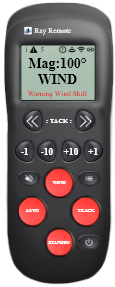
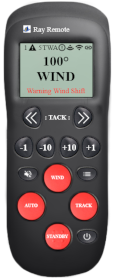
feature: add more display modes in GUI (#9)

diff --git a/public/js/rayremote.js b/public/js/rayremote.js
@@ -36,7 +36,6 @@ var touchEnd = function(event) {
 
 var ws = null;
 var handlePilotStatusTimeout = null;
-var handleHeadindValueTimeout = null;
 var handleReceiveTimeout = null;
 var handleSilenceScreenTimeout = null;
 var handleConfirmActionTimeout = null;
@@ -44,7 +43,7 @@ var handleCountDownCounterTimeout = null;
 var connected = false;
 var reconnect = true;
 const timeoutReconnect = 2000;
-const timeoutValue = 2000;
+const timeoutValue = 3000;
 const timeoutBlink = 500;
 const countDownDefault = 5;
 const noDataMessage = '-- -- -- --';
@@ -52,6 +51,7 @@ var pilotStatusDiv = undefined;
 var headingValueDiv = undefined;
 var receiveIconDiv = undefined;
 var sendIconDiv = undefined;
+var typeValIconDiv = undefined;
 var errorIconDiv = undefined;
 var countDownCounterDiv = undefined;
 var powerOnIconDiv = undefined;
@@ -67,11 +67,46 @@ var actionToBeConfirmed = '';
 var countDownValue = 0;
 var pilotStatus = '';
 
+var displayByPathParams = {
+  'navigation.headingMagnetic': {
+    handleTimeout: null,
+    typeVal: 'Mag',
+    usage: ['wind', 'route', 'auto', 'standby'],
+    value: ''
+  },
+  'navigation.headingTrue': {
+    handleTimeout: null,
+    typeVal: 'True',
+    usage: ['wind', 'route', 'auto', 'standby'],
+    value: ''
+  },
+  'environment.wind.angleApparent': {
+    handleTimeout: null,
+    typeVal: 'AWA',
+    usage: ['wind'],
+    value: ''
+  },
+  'environment.wind.angleTrueWater': {
+    handleTimeout: null,
+    typeVal: 'TWA',
+    usage: ['wind'],
+    value: ''
+  }
+}
+
+var preferedDisplayMode = {
+  wind: 'environment.wind.angleApparent',
+  route: 'navigation.headingMagnetic',
+  auto: 'navigation.headingMagnetic',
+  standby: 'navigation.headingMagnetic'
+}
+
 var startUpRayRemote = function() {
   pilotStatusDiv = document.getElementById('pilotStatus');
   headingValueDiv = document.getElementById('headingValue');
   receiveIconDiv = document.getElementById('receiveIcon');
   sendIconDiv = document.getElementById('sendIcon');
+  typeValIconDiv = document.getElementById('typeValIcon');
   errorIconDiv = document.getElementById('errorIcon');
   powerOnIconDiv = document.getElementById('powerOnIcon');
   powerOffIconDiv = document.getElementById('powerOffIcon');
@@ -82,8 +117,20 @@ var startUpRayRemote = function() {
   silenceScreenTextDiv = document.getElementById('silenceScreenText');
   confirmScreenDiv = document.getElementById('confirmScreen');
   countDownCounterDiv = document.getElementById('countDownCounter');
-  setPilotStatus(noDataMessage);
-  setHeadindValue(noDataMessage);
+  setPilotStatus('');
+  setHeadindValue('');
+  var savedPreferedDisplayModeJSON = localStorage.getItem('signalk-raymarine-autopilot');
+  var savedPreferedDisplayMode = savedPreferedDisplayModeJSON && JSON.parse(savedPreferedDisplayModeJSON);
+  if (savedPreferedDisplayMode === null) {savedPreferedDisplayMode = {};}
+  savedPreferedDisplayMode = (typeof savedPreferedDisplayMode.preferedDisplayMode !== 'undefined') ? savedPreferedDisplayMode.preferedDisplayMode : {};
+  Object.keys(preferedDisplayMode).map( pilotMode => {
+    var pathForPilotMode = savedPreferedDisplayMode[pilotMode];
+    if ((typeof pathForPilotMode !== 'undefined') &&
+        (typeof displayByPathParams[pathForPilotMode] !== 'undefined') &&
+        displayByPathParams[pathForPilotMode].usage.includes(pilotMode)) {
+      preferedDisplayMode[pilotMode] = pathForPilotMode;
+    }
+  })
 //  demo(); return;
   setTimeout(() => {
     receiveIconDiv.style.visibility = 'hidden';
@@ -92,13 +139,16 @@ var startUpRayRemote = function() {
     bottomBarIconDiv.style.visibility = 'hidden';
     notificationCounterDiv.style.visibility = 'hidden';
     countDownCounterDiv.innerHTML = '';
+    typeValIconDiv.innerHTML = '';
     wsConnect();
   }, 1500);
 }
 
 var demo = function () {
-  setHeadindValue(100);
-  setPilotStatus('WIND');
+  var headingPath = 'environment.wind.angleTrueWater';
+  setPilotStatus('wind');
+  buildHeadindValue( headingPath, 1.74);
+  clearTimeout(displayByPathParams[headingPath].handleTimeout);
   setNotificationMessage({"path":"notifications.autopilot.PilotWarningWindShift","value":{"state":"alarm","message":"Pilot Warning Wind Shift"}});
   powerOffIconDiv.style.visibility = 'hidden';
   powerOnIconDiv.style.visibility = 'visible';
@@ -234,6 +284,24 @@ var getNextNotification = function(skPath) {
   return newSkPathToAck;
 }
 
+var changePreferedDisplayMode = function() {
+  const currentPilotStatus = pilotStatus;
+  const currentPreferedDisplayMode = preferedDisplayMode[currentPilotStatus];
+  var pathForPilotStatus = [];
+  if (typeof currentPreferedDisplayMode === 'undefined') {return null}
+  for (let [key, value] of Object.entries(displayByPathParams)) {
+   if ((typeof value.usage === 'object') && value.usage.includes(currentPilotStatus)) {
+     pathForPilotStatus.push(key);
+   }
+  }
+  const currentIndex = pathForPilotStatus.indexOf(currentPreferedDisplayMode);
+  const nextIndex = (currentIndex + 1) % pathForPilotStatus.length;
+  preferedDisplayMode[currentPilotStatus] = pathForPilotStatus[nextIndex];
+  localStorage.setItem('signalk-raymarine-autopilot', JSON.stringify({preferedDisplayMode: preferedDisplayMode}));
+  setHeadindValue(displayByPathParams[preferedDisplayMode[currentPilotStatus]].value);
+  typeValIconDiv.innerHTML = displayByPathParams[preferedDisplayMode[currentPilotStatus]].typeVal;
+}
+
 var confirmTack = function(cmd) {
   var message = 'Repeat same key<br>to confirm<br>tack to ';
   if (cmd === 'tackToPort') {
@@ -304,6 +372,21 @@ var wsConnect = function() {
               "minPeriod": 900
             },
             {
+              "path": "navigation.headingTrue",
+              "format": "delta",
+              "minPeriod": 900
+            },
+            {
+              "path": "environment.wind.angleApparent",
+              "format": "delta",
+              "minPeriod": 900
+            },
+            {
+              "path": "environment.wind.angleTrueWater",
+              "format": "delta",
+              "minPeriod": 900
+            },
+            {
               "path": "notifications.autopilot.*",
               "format": "delta",
               "minPeriod": 200
@@ -312,8 +395,6 @@ var wsConnect = function() {
         };
         var subscriptionMessage = JSON.stringify(subscriptionObject);
         ws.send(subscriptionMessage);
-        handlePilotStatusTimeout = setTimeout(() => {setPilotStatus(noDataMessage)}, timeoutValue);
-        handleHeadindValueTimeout = setTimeout(() => {setHeadindValue(noDataMessage)}, timeoutValue);
       }
 
       ws.onclose = function() {
@@ -356,14 +437,15 @@ var dispatchMessages = function(jsonData) {
         update.values.forEach((value) => {
           if (value.path === "steering.autopilot.state") {
             clearTimeout(handlePilotStatusTimeout);
-            handlePilotStatusTimeout = setTimeout(() => {setPilotStatus(noDataMessage)}, timeoutValue);
+            handlePilotStatusTimeout = setTimeout(() => {
+              console.log('timeout:'+pilotStatus);
+              setPilotStatus('');
+            }, timeoutValue);
             setPilotStatus(value.value);
-          } else if (value.path === "navigation.headingMagnetic") {
-            clearTimeout(handleHeadindValueTimeout);
-            handleHeadindValueTimeout = setTimeout(() => {setHeadindValue(noDataMessage)}, timeoutValue);
-            setHeadindValue(Math.round(value.value * (180/Math.PI)));
           } else if (value.path.startsWith("notifications.autopilot")) {
             setNotificationMessage(value);
+          } else {
+            buildHeadindValue(value.path, value.value);
           }
         });
       }
@@ -371,19 +453,46 @@ var dispatchMessages = function(jsonData) {
   }
 }
 
-var setHeadindValue = function(value) {
-  if (value !== '') {
-    value = ((typeof value === 'undefined') || isNaN(value)) ? noDataMessage : 'Mag:' + value + '&deg;';
+var buildHeadindValue = function(path, value) {
+  var displayByPathParam = displayByPathParams[path];
+
+  if (typeof displayByPathParam === 'undefined') {
+    console.log('unknown path:' + path);
+    return null;
   }
-  headingValueDiv.innerHTML = value;
+
+  value = Math.round(value * (180/Math.PI));
+  displayByPathParam.value = ((typeof value === 'undefined') || isNaN(value)) ? noDataMessage : ' ' + value + '&deg;';
+  clearTimeout(displayByPathParam.handleTimeout);
+  displayByPathParam.handleTimeout = setTimeout(() => {
+    displayByPathParams[path].value = noDataMessage;
+    console.log('timeout:{'+pilotStatus+'}['+path+']'+displayByPathParams[path].value);
+    if (preferedDisplayMode[pilotStatus] == path) {
+      setHeadindValue(displayByPathParams[path].value);
+    }
+  }, timeoutValue, path);
+  if (preferedDisplayMode[pilotStatus] == path) {
+    if (typeValIconDiv.innerHTML !== displayByPathParam.typeVal) {
+      typeValIconDiv.innerHTML = displayByPathParam.typeVal;
+    }
+    setHeadindValue(displayByPathParams[path].value);
+  }
+}
+
+var setHeadindValue = function(value) {
+  if (pilotStatus === '') { value = ''}
+  headingValueDiv.innerHTML = ((typeof value === 'undefined') || (value === '')) ? noDataMessage : value;
 }
 
 var setPilotStatus = function(value) {
   if (typeof value === 'undefined') {
-    value = noDataMessage;
+    value = '';
   }
-  pilotStatusDiv.innerHTML = value;
   pilotStatus = value;
+  if (value === '') {
+    setHeadindValue(noDataMessage);
+    pilotStatusDiv.innerHTML = noDataMessage;
+  } else { pilotStatusDiv.innerHTML = value;}
 }
 
 var setNotificationMessage = function(value) {
@@ -448,11 +557,15 @@ var cleanOnClosed = function() {
   notificationCounterDiv.style.visibility = 'hidden';
   silenceScreenDiv.style.visibility = 'hidden';
   notificationCounterTextDiv.innerHTML = '';
+  typeValIconDiv.innerHTML = '';
   notificationsArray = {};
   skPathToAck = '';
   actionToBeConfirmed = '';
   pilotStatus = '';
-  clearTimeout(handleHeadindValueTimeout);
+  Object.keys(displayByPathParams).map( path => {
+    clearTimeout(displayByPathParams[path].handleTimeout);
+    displayByPathParams[path].value = '';
+  });
   clearTimeout(handlePilotStatusTimeout);
   setPilotStatus('');
   setHeadindValue('');

diff --git a/public/css/rayremote.css b/public/css/rayremote.css
@@ -185,6 +185,11 @@ html {
   left: 140px;
 }
 
+#typeValIcon {
+  left: 48px;
+  width: 34px;
+}
+
 #sendIcon {
   left: 120px;
[1 lines of base64/hex data omitted]
@@ -197,7 +202,7 @@ html {
 }
 
 #errorIcon {
-  left: 80px;
+  left: 82px;
[1 lines of base64/hex data omitted]
 }
 
@@ -215,7 +220,7 @@ html {
 }
 
 #countDownCounter {
-  left: 36px;
+  left: 34px;
   text-align: center;
 }
 
@@ -229,6 +234,7 @@ html {
   text-align: center;
   font-weight: bolder;
   font-size: 30px;
+  cursor: pointer;
 }
 
 #pilotStatus {
@@ -242,6 +248,7 @@ html {
   text-transform: uppercase;
   font-weight: bolder;
   font-size: 30px;
+  cursor: pointer;
 }
 
 .messageScreen {

diff --git a/public/index.html b/public/index.html
@@ -31,7 +31,8 @@
         <div class="icon18x18" id="notificationCounter">
           <div id="notificationCounterText">88</div>
         </div>
-        <div class="icon18x18" id="countDownCounter">8</div>
+        <div class="icon18x18" id="countDownCounter">5</div>
+        <div class="icon18x18" id="typeValIcon"></div>
         <div class="icon18x18" id="errorIcon"></div>
         <div class="icon18x18" id="receiveIcon"></div>
         <div class="icon18x18" id="sendIcon"></div>
@@ -39,8 +40,8 @@
         <div class="icon18x18" id="powerOnIcon"></div>
       </div>
       <div id="bottomBarIcon">&nbsp;Loading Ray Remote...</div>
-      <div id="headingValue"></div>
-      <div id="pilotStatus"></div>
+      <div id="headingValue" onClick="changePreferedDisplayMode();"></div>
+      <div id="pilotStatus" onClick="changePreferedDisplayMode();"></div>
       <div class="messageScreen" id="silenceScreen">
         <div id="silenceScreenText"></div>
         <div id="silenceScreenMute">&nbsp;Mute alarm press:</div>
